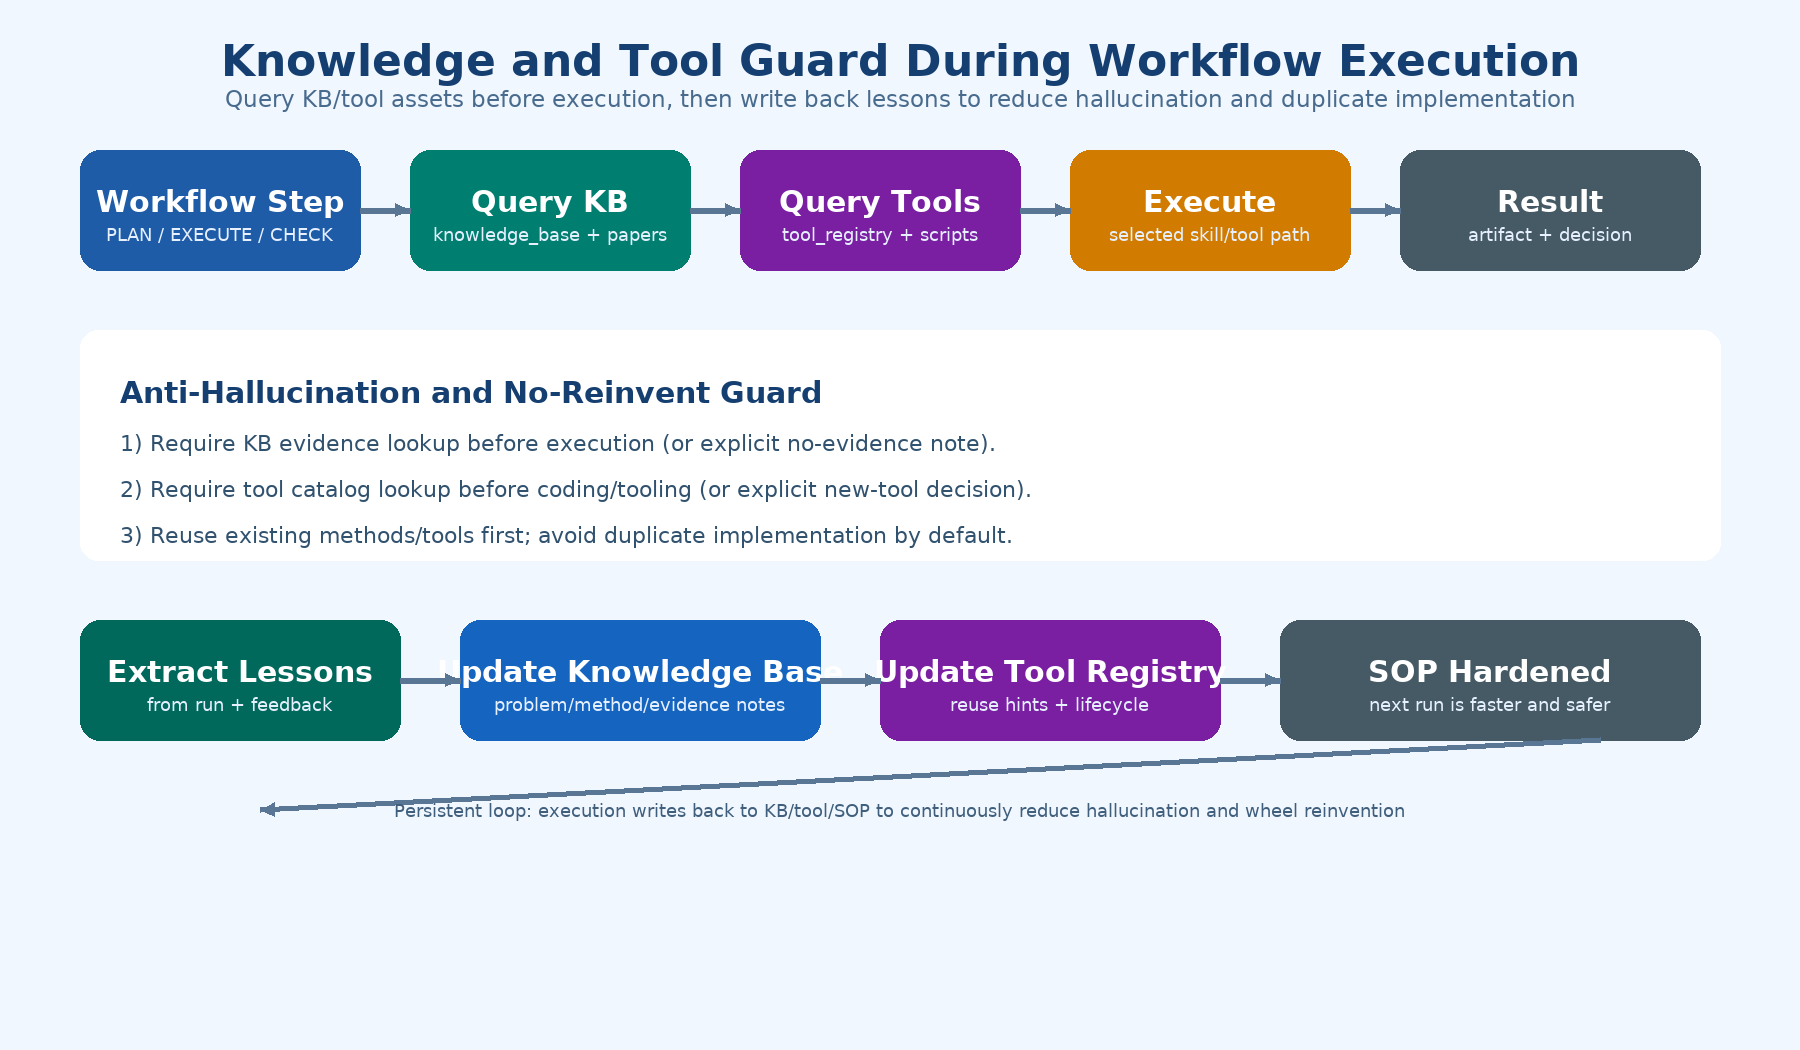
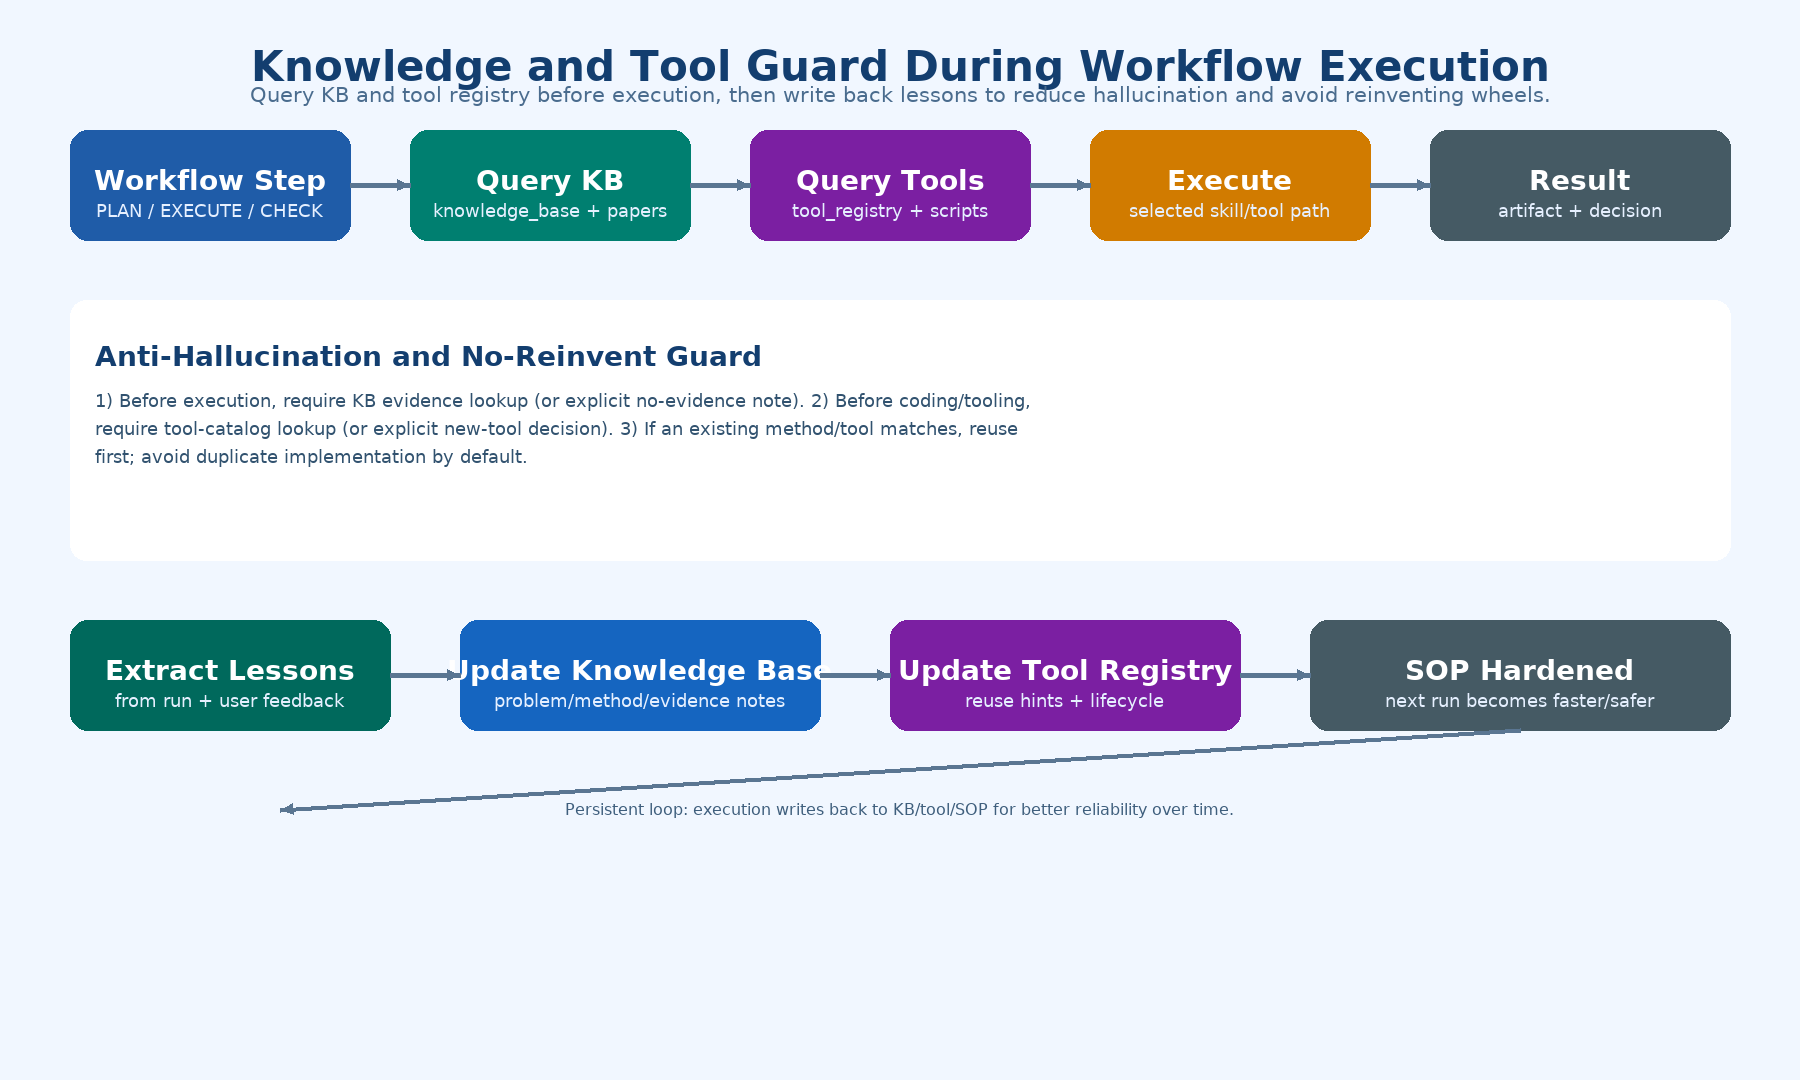
fix(diagrams): redraw workflow figures to avoid text overflow/overlap

diff --git a/README.md b/README.md
@@ -3,7 +3,7 @@
 A deployable, skill-based research agent system for EDA workflows.
 
 ![EDAgent Workflow Overview](docs/assets/workflow_overview.svg)
-![EDAgent Common Workflow Icons](docs/assets/workflow_icons.svg)
+![EDAgent Common Workflow Icons](docs/assets/workflow_icons.png)
 *This second diagram shows the decision branch: known workflow -> assign skills; unknown workflow -> temporary execution -> feedback capture -> create new workflow + SOP.*
 ![EDAgent Knowledge and Tool Guard Loop](docs/assets/workflow_kb_tool_guard.png)
 *This third diagram shows how each workflow step queries and updates knowledge/tool assets to reduce hallucination and avoid reinventing existing methods/tools.*
